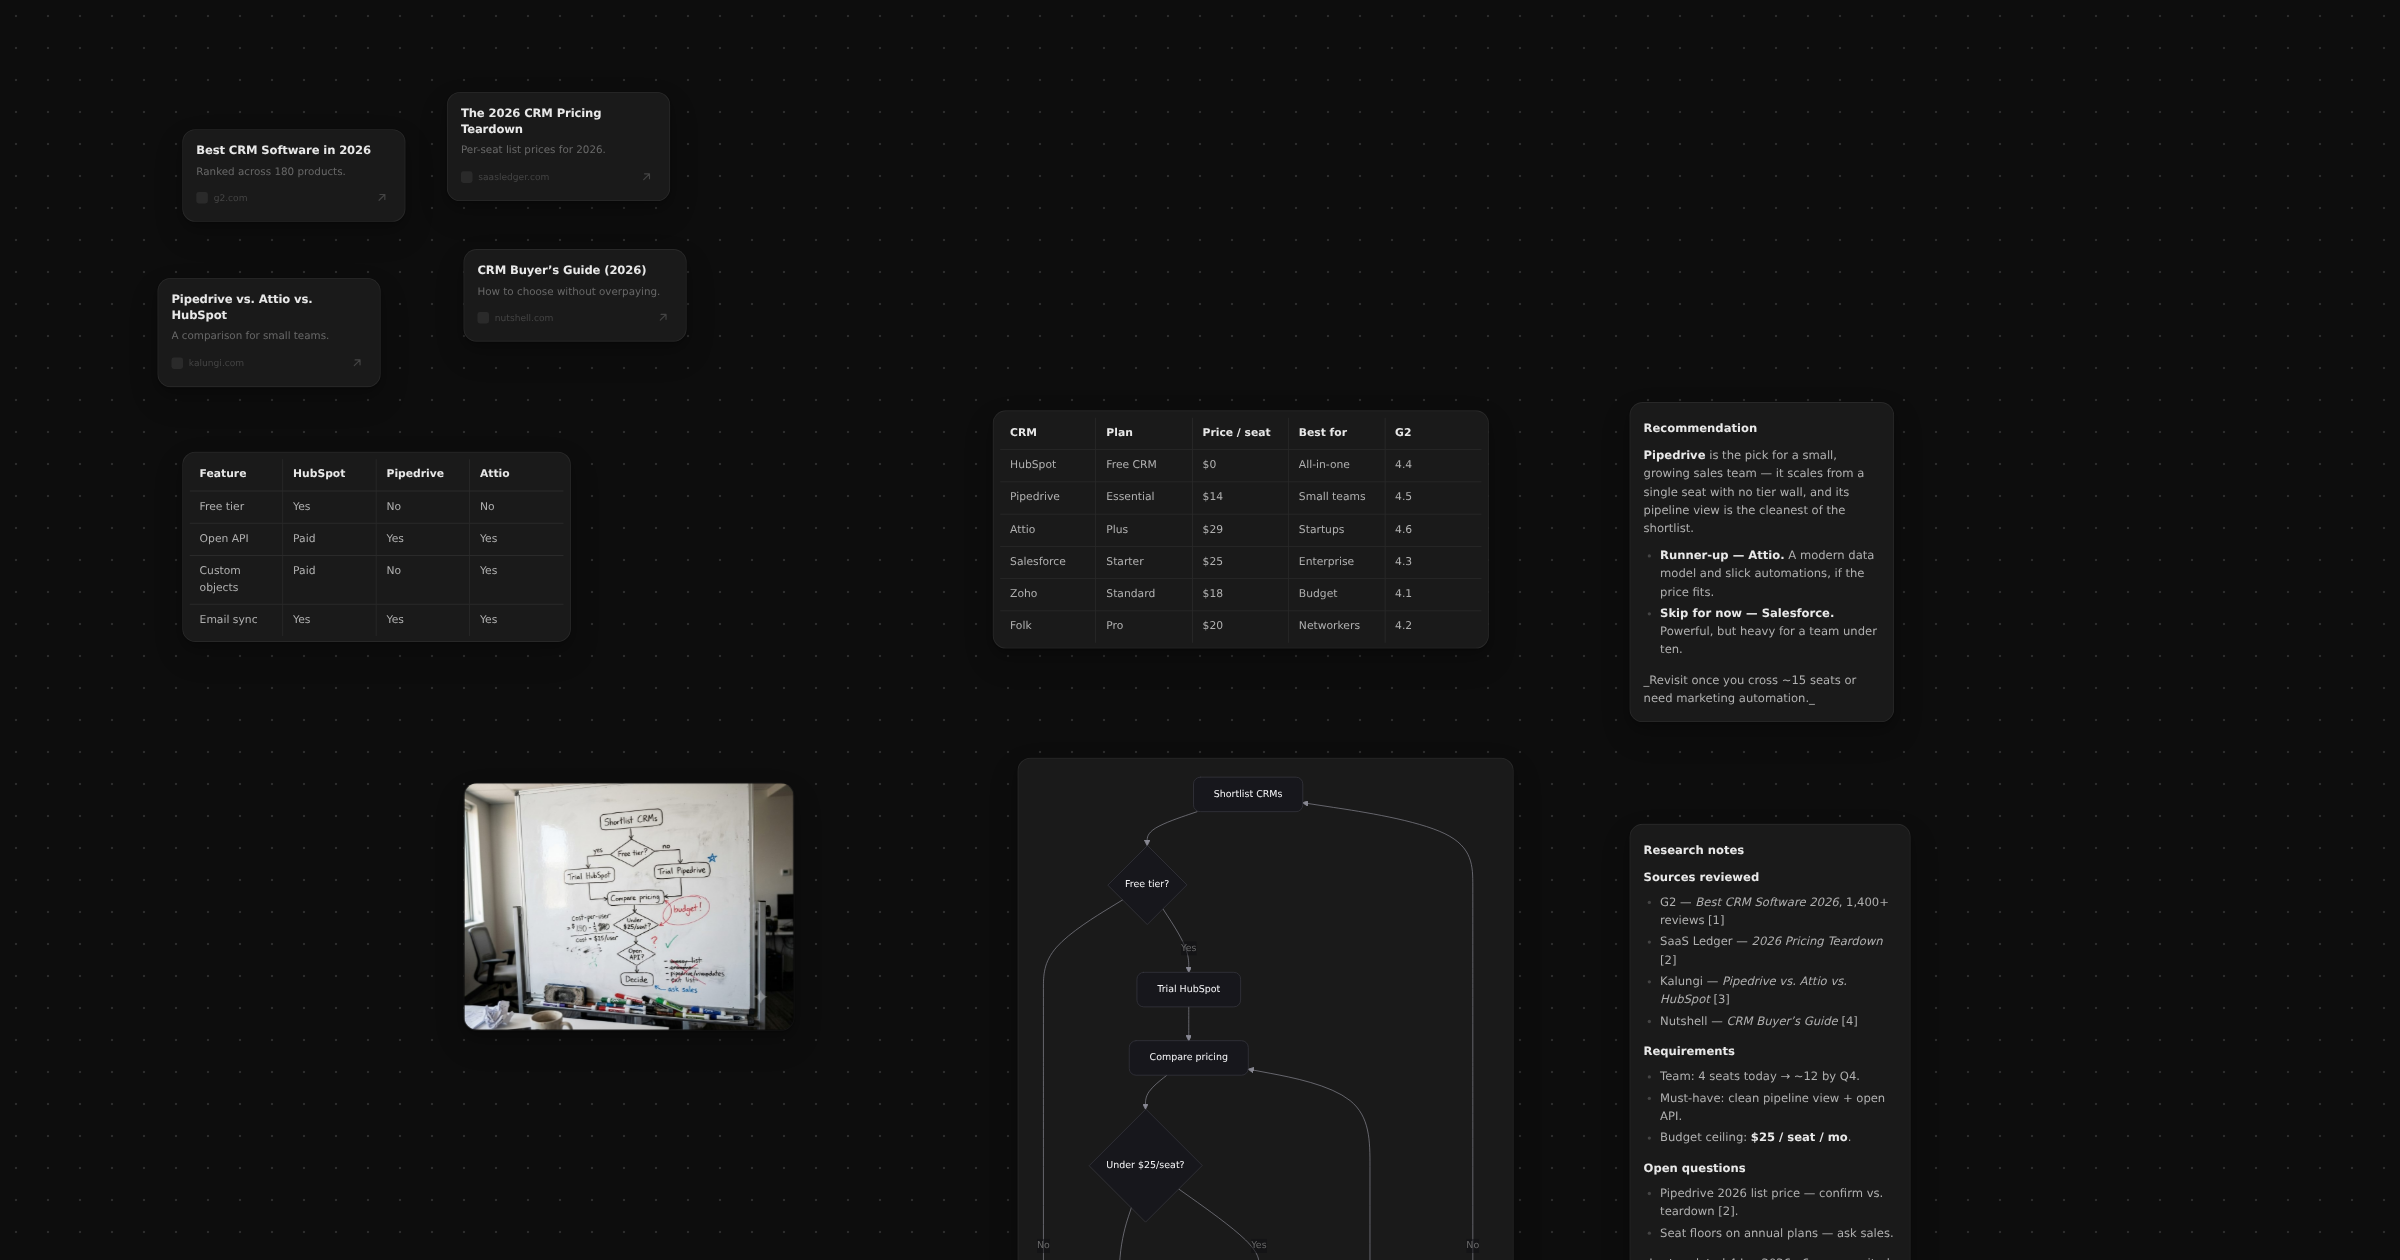
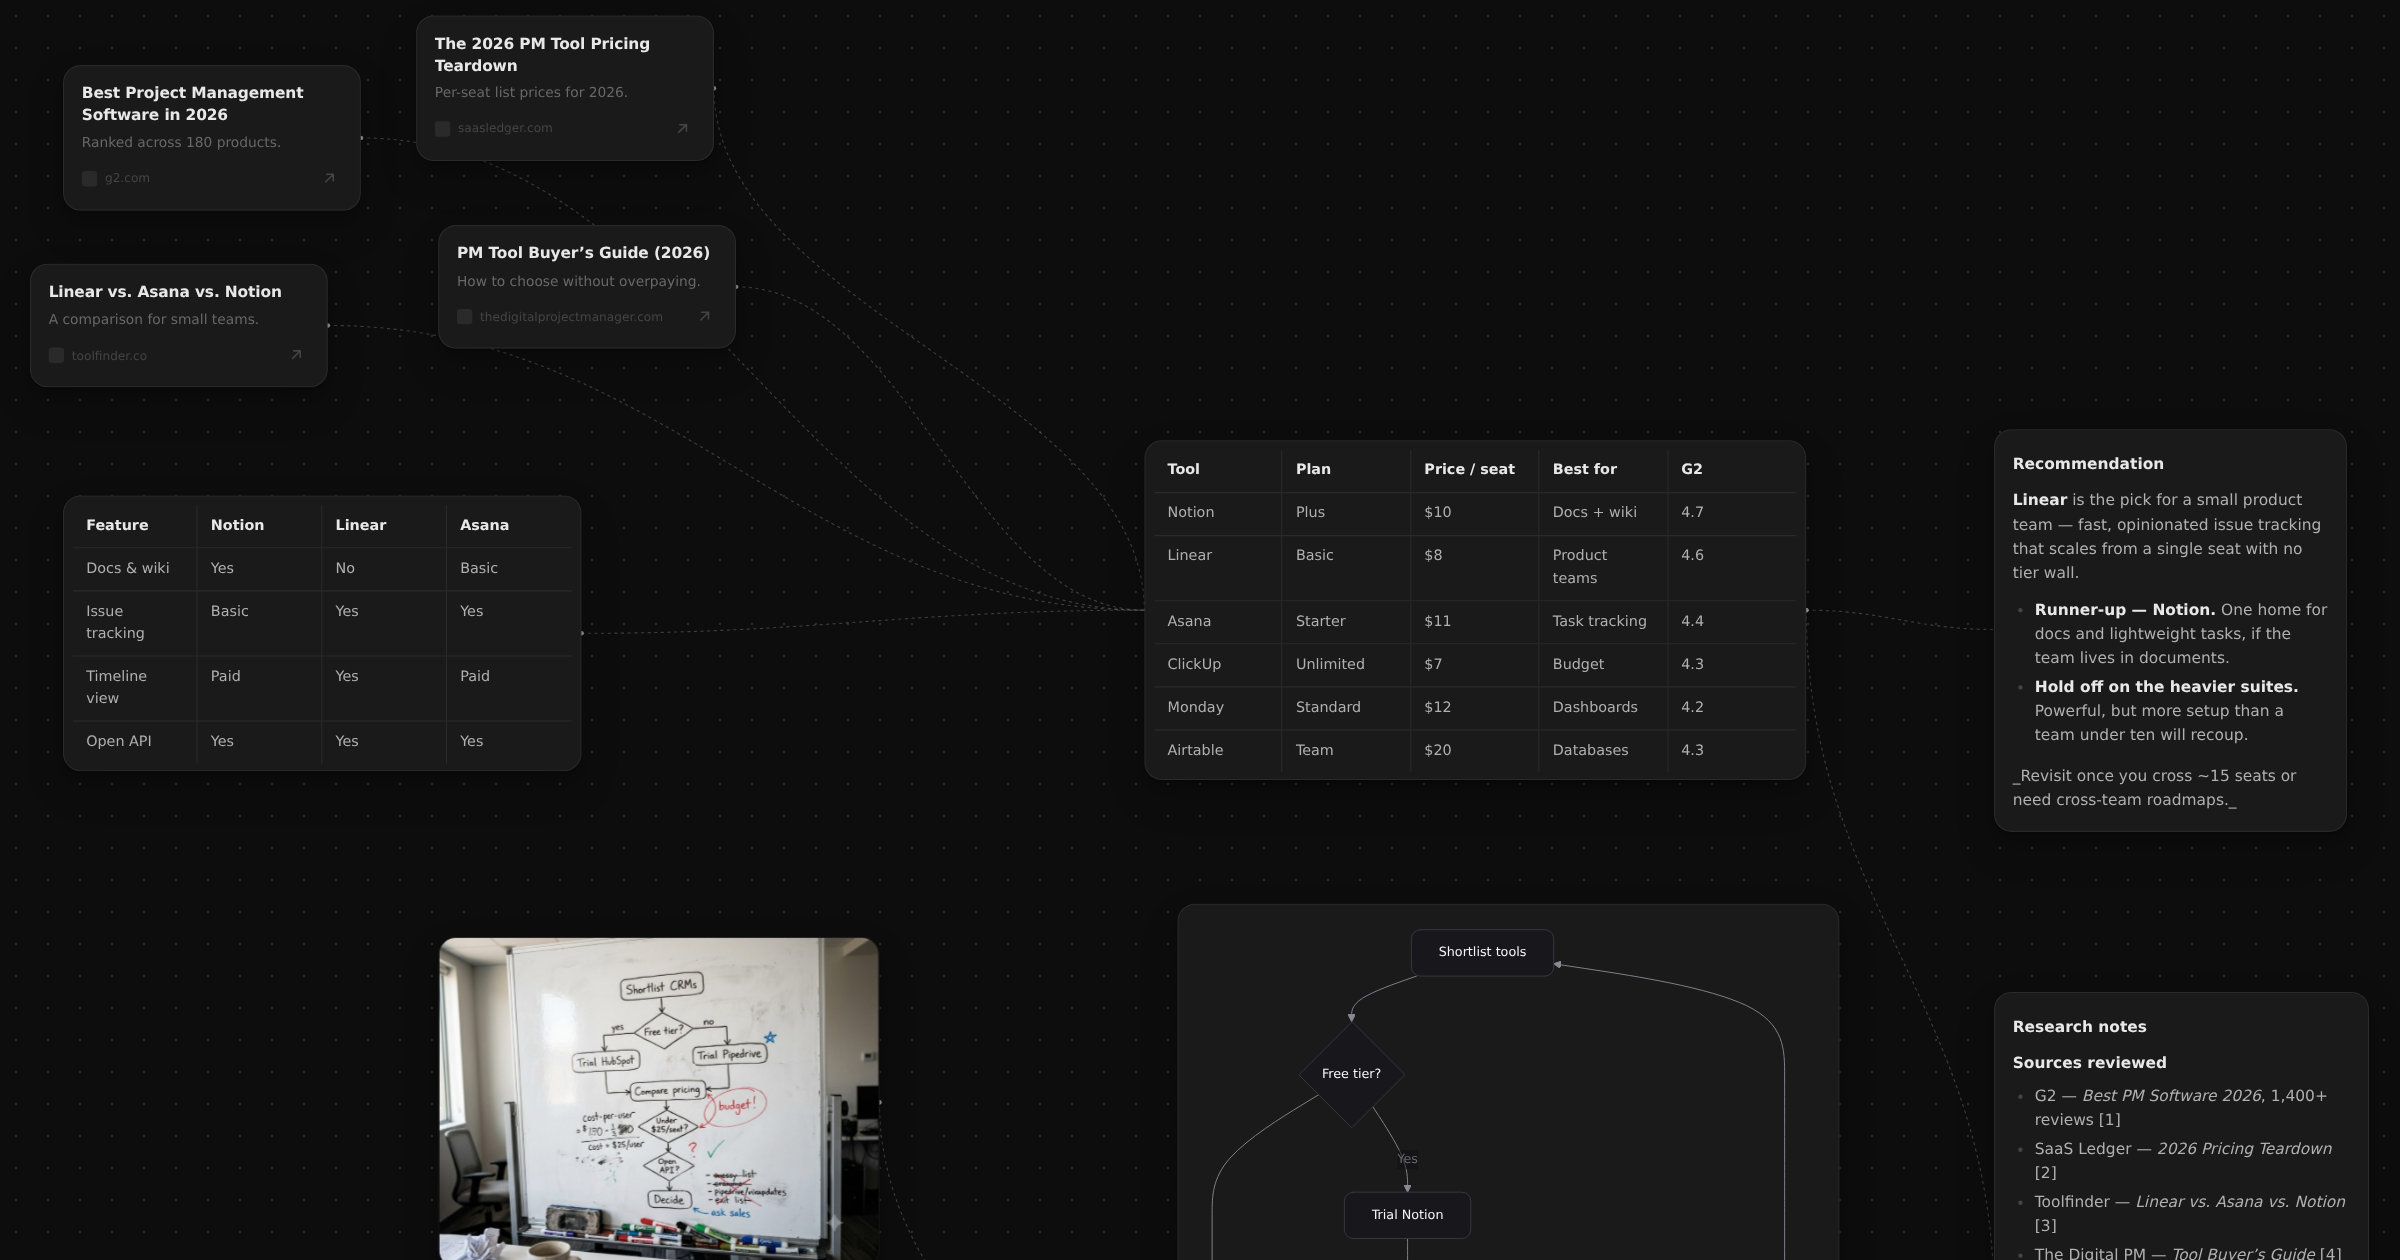
Demo content: retire the CRM comparison for a neutral PM-tools scenario
The hero showreel and landing examples compared CRMs by name — recommending
some vendors and advising against others. That reads as taking sides in a
market close to home; the demo's job is to show the product, not pick winners
there. The whole scenario now compares project-management tools (Notion /
Linear / Asana / ClickUp / Monday / Airtable) — same story beats, neutral
ground, and the one "skip" line names no one ("hold off on the heavier
suites").

- EmbedShowreel: table, feature matrix, recommendation, notes, links, flow
  diagram, comment + stale-cell fix (Linear $8 → $10).
- evidence-pricing.jpg regenerated in the same procurement-sheet style.
- Landing: versus doc + chatbot wall, bento table + market-size doc, composer
  demo line, alt texts.
- hero-board.png + bento-og.png recaptured from the updated demo (same
  dimensions and framing).
- The whiteboard photo stays as-is (owner call).

Claude-Session: https://claude.ai/code/session_013eSuNY6EMrPEGxMSaJVtco

diff --git a/site/index.html b/site/index.html
@@ -22,7 +22,7 @@
     <meta property="og:image" content="https://raagulmanoharan.github.io/Jarwiz-V3/assets/bento-og.png" />
     <meta property="og:image:width" content="2184" />
     <meta property="og:image:height" content="1282" />
-    <meta property="og:image:alt" content="A Jarwiz board of live cards: a focus-timer prototype, a CRM pricing table, a market-size doc, a revenue dashboard, the composer suggesting a Dashboard, and an onboarding flow diagram." />
+    <meta property="og:image:alt" content="A Jarwiz board of live cards: a focus-timer prototype, a tool pricing table, a market-size doc, a revenue dashboard, the composer suggesting a Dashboard, and an onboarding flow diagram." />
     <meta name="twitter:card" content="summary_large_image" />
     <meta name="twitter:title" content="Jarwiz: the AI whiteboard that does the thinking" />
     <meta name="twitter:description" content="Describe anything and Jarwiz builds the right shape for the answer: a doc, a table, a diagram, a live prototype, a dashboard, or a whole board of cards. Not a chat." />
@@ -599,7 +599,7 @@
             <iframe class="stage-frame" src="app/?embed=1" title="Live Jarwiz preview" loading="lazy"></iframe>
           </div>
           <div class="stage-mobile">
-            <img src="assets/hero-board.png" alt="A dense Jarwiz board: research sources, a feature matrix, a CRM pricing table, a recommendation doc, research notes, a whiteboard photo, and a flow diagram." loading="lazy" />
+            <img src="assets/hero-board.png" alt="A dense Jarwiz board: research sources, a feature matrix, a tool pricing table, a recommendation doc, research notes, a whiteboard photo, and a flow diagram." loading="lazy" />
           </div>
         </div>
       </section>
@@ -621,18 +621,18 @@
             <div class="vs-card win">
               <div class="vs-scroll" data-doc>
                 <div class="doccard">
-                  <div class="doccard-title">CRM tools, compared</div>
+                  <div class="doccard-title">PM tools, compared</div>
                   <div class="doccard-body">
-                    <p>The CRM market hit <b>$101.4B in 2025</b>, projected to reach <b>$262B by 2032</b> as AI-native tools expand the category.</p>
+                    <p>The work-management market passed <b>$8B in 2025</b>, projected to more than double by 2032 as AI-native tools expand the category.</p>
                     <table class="doccard-tbl">
-                      <thead><tr><th>CRM</th><th>Price /mo</th><th>Best for</th></tr></thead>
+                      <thead><tr><th>Tool</th><th>Price /mo</th><th>Best for</th></tr></thead>
                       <tbody>
-                        <tr><td>HubSpot</td><td>$0–$45</td><td>All-in-one</td></tr>
-                        <tr><td>Salesforce</td><td>$25–$300</td><td>Enterprise</td></tr>
-                        <tr><td>Pipedrive</td><td>$14–$99</td><td>Small teams</td></tr>
+                        <tr><td>Notion</td><td>$0–$18</td><td>Docs + wiki</td></tr>
+                        <tr><td>Linear</td><td>$0–$14</td><td>Product teams</td></tr>
+                        <tr><td>Asana</td><td>$0–$25</td><td>Task tracking</td></tr>
                       </tbody>
                     </table>
-                    <p>For most SMBs: start on HubSpot’s free tier, upgrade when the pipeline justifies it.</p>
+                    <p>For most small teams: start on a free tier, upgrade when the roadmap justifies it.</p>
                     <p class="doccard-src">Source: Grand View Research</p>
                   </div>
                 </div>
@@ -654,15 +654,15 @@
           <div class="board-canvas reveal" role="img" aria-label="A Jarwiz canvas: a viewport onto a board where a dashboard, prototype, comparison table, research doc, the composer, and a flow diagram run off every edge.">
            <div class="board-inner">
             <!-- top-left: a table card, its top running off the canvas -->
-            <div class="bcard b-table" data-desc="Turn a dozen open tabs into one clear table, every option lined up and ready to compare." data-utt="Compare the top CRMs in a table">
+            <div class="bcard b-table" data-desc="Turn a dozen open tabs into one clear table, every option lined up and ready to compare." data-utt="Compare the top PM tools in a table">
               <table class="doccard-tbl">
-                <thead><tr><th>CRM</th><th>Price /mo</th><th>Best for</th></tr></thead>
+                <thead><tr><th>Tool</th><th>Price /mo</th><th>Best for</th></tr></thead>
                 <tbody>
-                  <tr><td>HubSpot</td><td>$0–$45</td><td>All-in-one</td></tr>
-                  <tr><td>Salesforce</td><td>$25–$300</td><td>Enterprise</td></tr>
-                  <tr><td>Pipedrive</td><td>$14–$99</td><td>Small teams</td></tr>
-                  <tr><td>Attio</td><td>$0–$59</td><td>Startups</td></tr>
-                  <tr><td>Zoho</td><td>$0–$52</td><td>Value</td></tr>
+                  <tr><td>Notion</td><td>$0–$18</td><td>Docs + wiki</td></tr>
+                  <tr><td>Linear</td><td>$0–$14</td><td>Product teams</td></tr>
+                  <tr><td>Asana</td><td>$0–$25</td><td>Task tracking</td></tr>
+                  <tr><td>ClickUp</td><td>$0–$12</td><td>Value</td></tr>
+                  <tr><td>Monday</td><td>$9–$19</td><td>Dashboards</td></tr>
                 </tbody>
               </table>
             </div>
@@ -702,11 +702,11 @@
             </div>
 
             <!-- top-right: a doc card with a citation -->
-            <div class="bcard b-doc metallic" data-desc="Turn a question into a researched doc, with the reading done and the sources cited for you." data-utt="Research the CRM market size">
+            <div class="bcard b-doc metallic" data-desc="Turn a question into a researched doc, with the reading done and the sources cited for you." data-utt="Research the work-management market size">
               <div class="doccard">
-                <div class="doccard-title">CRM market size</div>
+                <div class="doccard-title">Work-management market size</div>
                 <div class="doccard-body">
-                  <p>The global CRM market hit <b>$101.4B in 2025</b>, up ~13% YoY, and is projected to reach <b>$262B by 2032</b> as AI-native tools expand the category.</p>
+                  <p>The global work-management market passed <b>$8B in 2025</b>, up ~13% YoY, and is projected to more than double by <b>2032</b> as AI-native tools expand the category.</p>
                   <table class="doccard-tbl doc-inline">
                     <thead><tr><th>Segment</th><th>Share</th><th>CAGR</th></tr></thead>
                     <tbody>
@@ -868,27 +868,27 @@
         const chat = streamBox && streamBox.querySelector('.chat-txt');
         if (!chat) return;
         const WALL =
-          "Great question — and honestly there's a lot to unpack here, so bear with me. The CRM market is " +
-          "large and still growing fast. As of 2025 the global customer-relationship-management market " +
-          "reached roughly $101.4 billion, and most analysts project it will keep expanding to around " +
-          "$262 billion by 2032, driven largely by AI-native tools entering the category and by more small " +
-          "businesses moving off spreadsheets. As for which one to pick, it really depends on your team " +
-          "size, your budget, and how much complexity you're willing to take on. HubSpot is frequently " +
-          "recommended as an all-in-one platform; its pricing runs from $0 on the free tier up to about $45 " +
-          "per month on the starter plans, and it tends to work well for teams that want marketing, sales " +
-          "and service living in one place without stitching together lots of separate tools. Salesforce, " +
-          "on the other hand, is the long-standing enterprise standard, with pricing from roughly $25 to " +
-          "$300 per seat per month depending on the edition; it's extremely powerful and endlessly " +
-          "customizable, but it's generally better suited to larger organizations with dedicated admins, " +
-          "and it can be a lot to set up. Pipedrive is a lighter, more affordable option, typically $14 to " +
-          "$99 per month, and it's a good fit for smaller teams that mostly care about a clean, visual sales " +
-          "pipeline. There are others worth a mention too — Zoho is very budget-friendly, Attio is a newer, " +
-          "flexible, data-model-first option, and Folk is popular with relationship-led teams. You'll also " +
-          "want to weigh things like open APIs and integrations, whether there's a free tier to trial, seat " +
-          "minimums on annual plans, migrating your data from whatever you use today, and how steep the " +
-          "onboarding curve is for your team. For most small and medium businesses, a reasonable approach is " +
-          "to start on HubSpot's free tier, actually use it for a few weeks with real deals, and only " +
-          "upgrade once your pipeline volume and revenue clearly justify the cost — but again, it really " +
+          "Great question — and honestly there's a lot to unpack here, so bear with me. The work-management " +
+          "market is large and still growing fast. As of 2025 the global market for project and " +
+          "work-management software passed roughly $8 billion, and most analysts project it will more than " +
+          "double by 2032, driven largely by AI-native tools entering the category and by more small " +
+          "teams moving off spreadsheets. As for which one to pick, it really depends on your team " +
+          "size, your budget, and how much complexity you're willing to take on. Notion is frequently " +
+          "recommended as an all-in-one workspace; its pricing runs from $0 on the free tier up to about $18 " +
+          "per month on the business plans, and it tends to work well for teams that want docs, wikis " +
+          "and lightweight tasks living in one place without stitching together lots of separate tools. " +
+          "Asana, on the other hand, is the long-standing standard for structured task tracking, with " +
+          "pricing from roughly $0 to $25 per seat per month depending on the edition; it's powerful and " +
+          "very configurable, but it's generally better suited to larger teams with established processes, " +
+          "and it can be a lot to set up. Linear is a lighter, faster option, typically $0 to " +
+          "$14 per month, and it's a good fit for smaller product teams that mostly care about clean, " +
+          "fast issue tracking. There are others worth a mention too — ClickUp is very budget-friendly, " +
+          "Airtable is a flexible, data-model-first option, and Monday is popular with ops-led teams. You'll " +
+          "also want to weigh things like open APIs and integrations, whether there's a free tier to trial, " +
+          "seat minimums on annual plans, migrating your data from whatever you use today, and how steep the " +
+          "onboarding curve is for your team. For most small teams, a reasonable approach is " +
+          "to start on a free tier, actually use it for a few weeks with real work, and only " +
+          "upgrade once your roadmap and team size clearly justify the cost — but again, it really " +
           "does depend on your specific situation, so I'd encourage you to trial the top two or three before " +
           "you commit to any single one of them. (Source: Grand View Research, plus various vendor pages.)";
         if (reduce) { chat.textContent = WALL; return; }
@@ -931,7 +931,7 @@
         if (!typed || !shapeEl) return;
         const PAIRS = [
           ['Turn my Q2 sales into a report', 'Dashboard'],
-          ['Compare the top 5 CRMs', 'Table'],
+          ['Compare the top 5 PM tools', 'Table'],
           ['Map the onboarding flow', 'Diagram'],
           ['Draft a launch plan for the app', 'Doc'],
           ['Storyboard a 5-day trip to Goa', 'Board'],

diff --git a/apps/web/src/ui/EmbedShowreel.tsx b/apps/web/src/ui/EmbedShowreel.tsx
@@ -31,70 +31,72 @@ import { TABLE_HEADER_H } from '../shapes/TableCardShapeUtil';
 import { PROV_META_KEY } from '../ask/useAsk';
 
 // ── The canned research board ──────────────────────────────────────────────
-// One stale cell (`STALE`) is the whole story: the table quotes last year's
-// Pipedrive price; the evidence sheet says otherwise; the fix streams it to `TRUE`.
-const STALE = '$14';
-const TRUE = '$19';
+// A project-tool comparison (deliberately far from anyone's day job — no CRM,
+// no sales stack). One stale cell (`STALE`) is the whole story: the table
+// quotes last year's Linear price; the evidence sheet says otherwise; the fix
+// streams it to `TRUE`.
+const STALE = '$8';
+const TRUE = '$10';
 
 const LINKS = [
-  { url: 'https://www.g2.com/categories/crm', siteName: 'G2', title: 'Best CRM Software in 2026', description: 'Ranked across 180 products.' },
-  { url: 'https://saasledger.com/crm-pricing-2026', siteName: 'SaaS Ledger', title: 'The 2026 CRM Pricing Teardown', description: 'Per-seat list prices for 2026.' },
-  { url: 'https://kalungi.com/pipedrive-vs-attio', siteName: 'Kalungi', title: 'Pipedrive vs. Attio vs. HubSpot', description: 'A comparison for small teams.' },
-  { url: 'https://nutshell.com/crm-buyers-guide', siteName: 'Nutshell', title: 'CRM Buyer’s Guide (2026)', description: 'How to choose without overpaying.' },
+  { url: 'https://www.g2.com/categories/project-management', siteName: 'G2', title: 'Best Project Management Software in 2026', description: 'Ranked across 180 products.' },
+  { url: 'https://saasledger.com/pm-pricing-2026', siteName: 'SaaS Ledger', title: 'The 2026 PM Tool Pricing Teardown', description: 'Per-seat list prices for 2026.' },
+  { url: 'https://toolfinder.co/linear-vs-asana-vs-notion', siteName: 'Toolfinder', title: 'Linear vs. Asana vs. Notion', description: 'A comparison for small teams.' },
+  { url: 'https://thedigitalprojectmanager.com/tools-buyers-guide', siteName: 'The Digital PM', title: 'PM Tool Buyer’s Guide (2026)', description: 'How to choose without overpaying.' },
 ];
 
 const TABLE = {
-  columns: ['CRM', 'Plan', 'Price / seat', 'Best for', 'G2'],
+  columns: ['Tool', 'Plan', 'Price / seat', 'Best for', 'G2'],
   baseRows: [
-    ['HubSpot', 'Free CRM', '$0', 'All-in-one', '4.4'],
-    ['Pipedrive', 'Essential', STALE, 'Small teams', '4.5'],
-    ['Attio', 'Plus', '$29', 'Startups', '4.6'],
-    ['Salesforce', 'Starter', '$25', 'Enterprise', '4.3'],
-    ['Zoho', 'Standard', '$18', 'Budget', '4.1'],
-    ['Folk', 'Pro', '$20', 'Networkers', '4.2'],
+    ['Notion', 'Plus', '$10', 'Docs + wiki', '4.7'],
+    ['Linear', 'Basic', STALE, 'Product teams', '4.6'],
+    ['Asana', 'Starter', '$11', 'Task tracking', '4.4'],
+    ['ClickUp', 'Unlimited', '$7', 'Budget', '4.3'],
+    ['Monday', 'Standard', '$12', 'Dashboards', '4.2'],
+    ['Airtable', 'Team', '$20', 'Databases', '4.3'],
   ],
 };
 
 const TABLE2 = {
-  columns: ['Feature', 'HubSpot', 'Pipedrive', 'Attio'],
+  columns: ['Feature', 'Notion', 'Linear', 'Asana'],
   rows: [
-    ['Free tier', 'Yes', 'No', 'No'],
-    ['Open API', 'Paid', 'Yes', 'Yes'],
-    ['Custom objects', 'Paid', 'No', 'Yes'],
-    ['Email sync', 'Yes', 'Yes', 'Yes'],
+    ['Docs & wiki', 'Yes', 'No', 'Basic'],
+    ['Issue tracking', 'Basic', 'Yes', 'Yes'],
+    ['Timeline view', 'Paid', 'Yes', 'Paid'],
+    ['Open API', 'Yes', 'Yes', 'Yes'],
   ],
 };
 
 const DOC_TEXT =
   '## Recommendation\n\n' +
-  '**Pipedrive** is the pick for a small, growing sales team — it scales from a single seat with no tier wall, and its pipeline view is the cleanest of the shortlist.\n\n' +
-  '- **Runner-up — Attio.** A modern data model and slick automations, if the price fits.\n' +
-  '- **Skip for now — Salesforce.** Powerful, but heavy for a team under ten.\n\n' +
-  '_Revisit once you cross ~15 seats or need marketing automation._';
+  '**Linear** is the pick for a small product team — fast, opinionated issue tracking that scales from a single seat with no tier wall.\n\n' +
+  '- **Runner-up — Notion.** One home for docs and lightweight tasks, if the team lives in documents.\n' +
+  '- **Hold off on the heavier suites.** Powerful, but more setup than a team under ten will recoup.\n\n' +
+  '_Revisit once you cross ~15 seats or need cross-team roadmaps._';
 
 const NOTES_DOC =
   '## Research notes\n\n' +
   '**Sources reviewed**\n' +
-  '- G2 — *Best CRM Software 2026*, 1,400+ reviews [1]\n' +
+  '- G2 — *Best PM Software 2026*, 1,400+ reviews [1]\n' +
   '- SaaS Ledger — *2026 Pricing Teardown* [2]\n' +
-  '- Kalungi — *Pipedrive vs. Attio vs. HubSpot* [3]\n' +
-  '- Nutshell — *CRM Buyer’s Guide* [4]\n\n' +
+  '- Toolfinder — *Linear vs. Asana vs. Notion* [3]\n' +
+  '- The Digital PM — *Tool Buyer’s Guide* [4]\n\n' +
   '**Requirements**\n' +
   '- Team: 4 seats today → ~12 by Q4.\n' +
-  '- Must-have: clean pipeline view + open API.\n' +
-  '- Budget ceiling: **$25 / seat / mo**.\n\n' +
+  '- Must-have: fast issue tracking + open API.\n' +
+  '- Budget ceiling: **$12 / seat / mo**.\n\n' +
   '**Open questions**\n' +
-  '- Pipedrive 2026 list price — confirm vs. teardown [2].\n' +
+  '- Linear 2026 list price — confirm vs. teardown [2].\n' +
   '- Seat floors on annual plans — ask sales.\n\n' +
   '_Last updated 4 Jan 2026 · 6 sources cited_';
 
 const DIAGRAM = `flowchart TD
-  A[Shortlist CRMs] --> B{Free tier?}
-  B -->|Yes| C[Trial HubSpot]
-  B -->|No| D[Trial Pipedrive]
+  A[Shortlist tools] --> B{Free tier?}
+  B -->|Yes| C[Trial Notion]
+  B -->|No| D[Trial Linear]
   C --> E[Compare pricing]
   D --> E
-  E --> F{Under $25/seat?}
+  E --> F{Under $12/seat?}
   F -->|No| G[Negotiate]
   G --> D
   F -->|Yes| H{Open API?}
@@ -109,7 +111,7 @@ const DIAGRAM = `flowchart TD
 
 const STICKIES = ['Double-check the 2026 pricing, sheet due Friday', 'Ask sales about seat floors before we commit'];
 
-const COMMENT_BODY = `The 2026 pricing sheet lists Pipedrive Essential at ${TRUE}/seat. This row still shows ${STALE}, last year's price.`;
+const COMMENT_BODY = `The 2026 pricing sheet lists Linear Basic at ${TRUE}/seat. This row still shows ${STALE}, last year's price.`;
 
 // Fixed page-space layout — a sprawling workspace. The board is built ONCE; the
 // loop only drops/removes the evidence card and streams the one cell.
@@ -270,7 +272,7 @@ export function EmbedShowreel() {
 
     const rowsWith = (price: string): string[][] =>
       TABLE.baseRows.map((r) => {
-        if (r[0] !== 'Pipedrive') return r;
+        if (r[0] !== 'Linear') return r;
         const copy = [...r];
         copy[2] = price;
         return copy;
@@ -312,7 +314,7 @@ export function EmbedShowreel() {
       editor.createShape({ id: sketch, type: 'image-card', x: L.sketch.x, y: L.sketch.y, props: { w: L.sketch.w, h: L.sketch.h, src: SKETCH_URL, name: 'Whiteboard sketch' } });
 
       const t = editor.getShape(table);
-      if (t) setShapeTitle(editor, t, 'CRM shortlist');
+      if (t) setShapeTitle(editor, t, 'Tool shortlist');
       const t2 = editor.getShape(table2);
       if (t2) setShapeTitle(editor, t2, 'Feature matrix');
 
@@ -371,7 +373,7 @@ export function EmbedShowreel() {
       if (!ids.current) return;
       editor.updateShape({ id: ids.current.table, type: 'table-card', props: { rows: rowsWith(price) } });
     };
-    // Flag/unflag the stale price cell ON the real table shape (Pipedrive row,
+    // Flag/unflag the stale price cell ON the real table shape (Linear row,
     // Price/seat column) via meta — the highlight rides the actual cell.
     const flashCell = (on: boolean) => {
       if (!ids.current) return;
@@ -389,7 +391,7 @@ export function EmbedShowreel() {
     const stickyCenter = (i: number) => ({ x: L.stickies[i]!.x + L.stickies[i]!.w * 0.5, y: L.stickies[i]!.y + L.stickies[i]!.h * 0.5 });
     const STICKY_A = stickyCenter(0);
     const STICKY_B = stickyCenter(1);
-    // The comment pin sits on the RIGHT side of the flagged cell (Pipedrive,
+    // The comment pin sits on the RIGHT side of the flagged cell (Linear,
     // Price/seat), vertically centered on that row — computed from the table's
     // LIVE page bounds so it lands exactly on the cell no matter how the
     // fit-height card settled (a fixed fraction drifted when the table shrank).